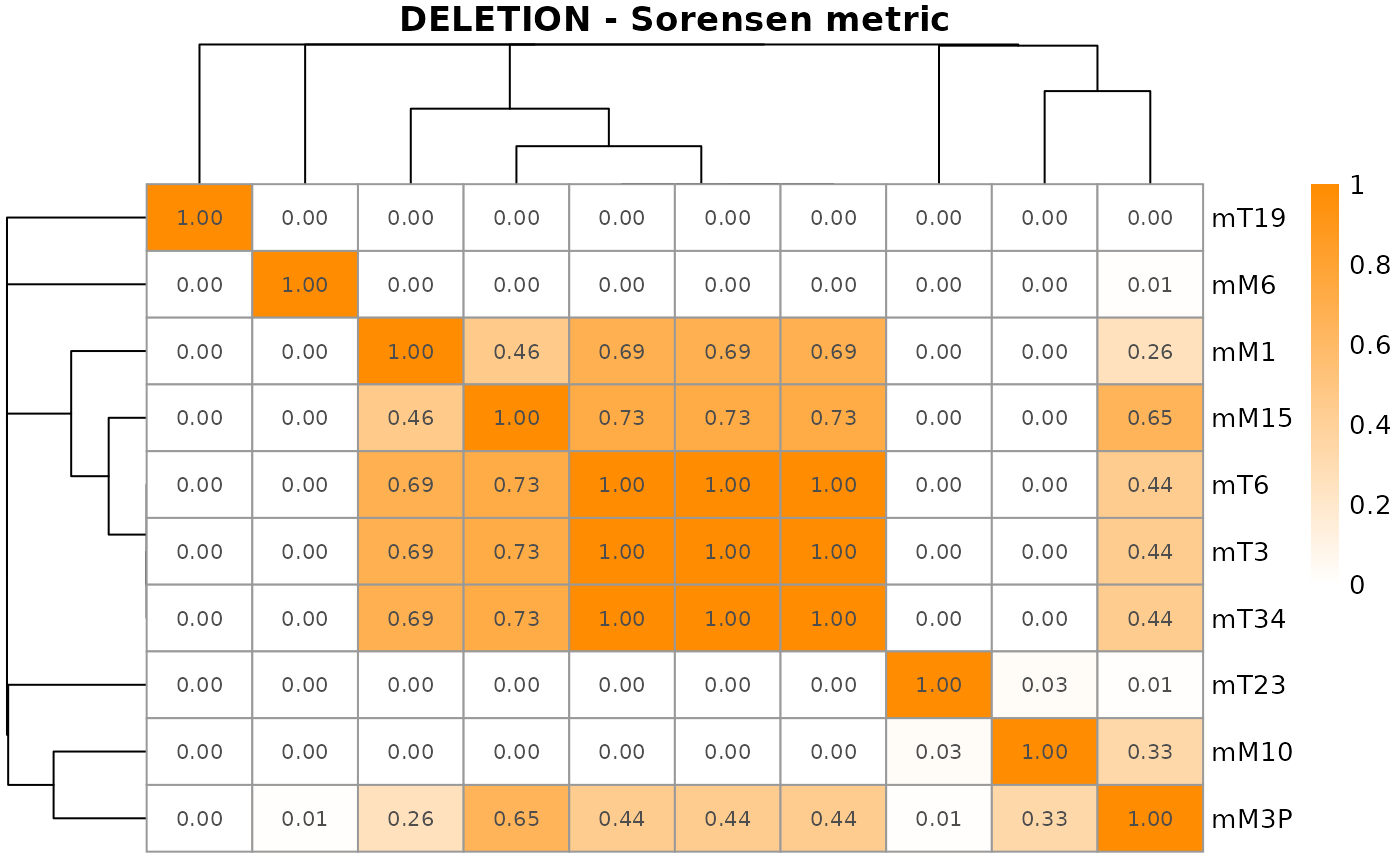
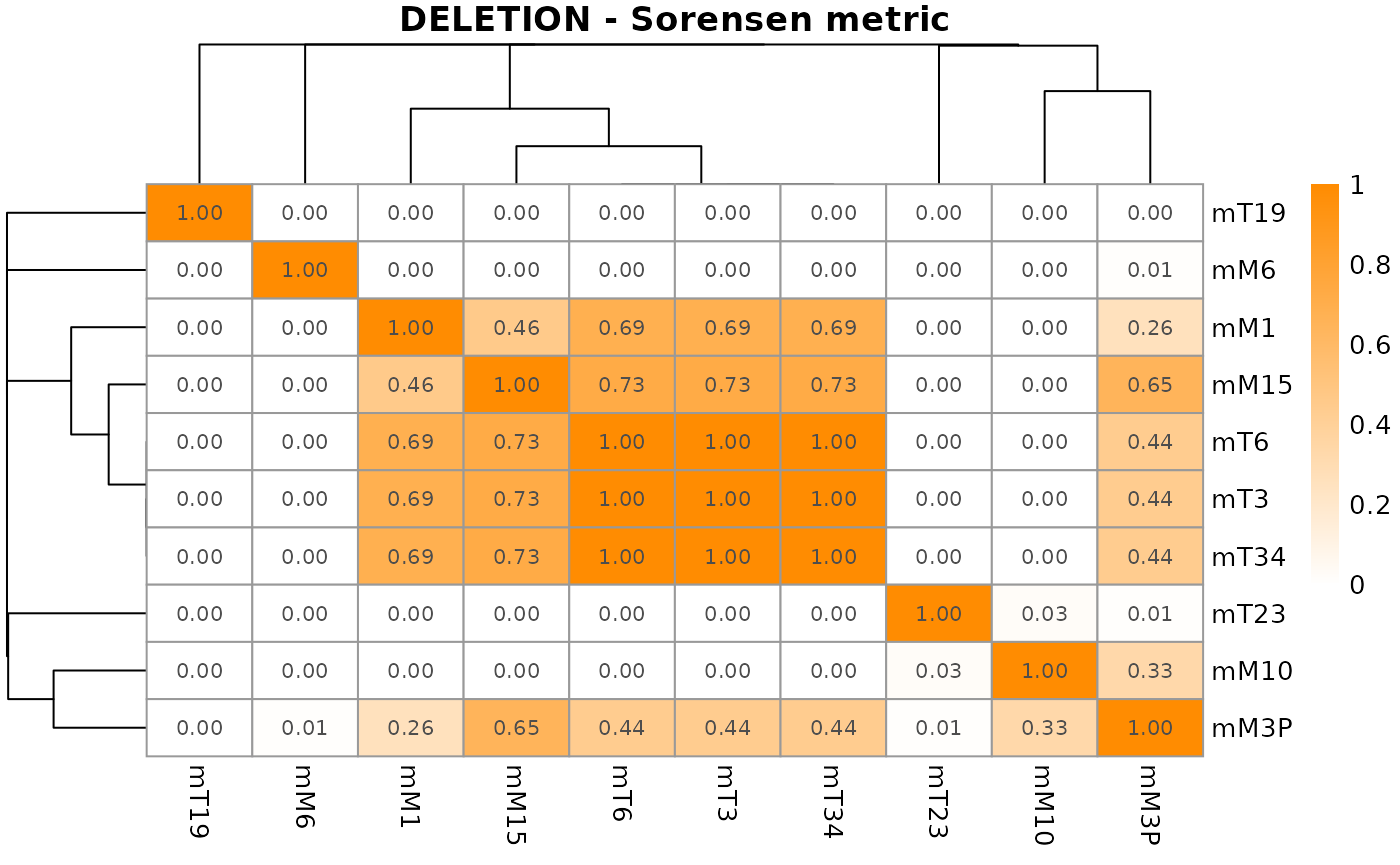
Built site for CNVMetrics: 0.1.3@6596838

diff --git a/articles/CNVMetrics.html b/articles/CNVMetrics.html
@@ -74,7 +74,7 @@
   <div class="col-md-9 contents">
     <div class="page-header toc-ignore">
       <h1 data-toc-skip>Quantifying similarity between copy number profiles</h1>
-                        <h4 class="author">Astrid Deschênes and Pascal Belleau</h4>
+                        <h4 class="author">Astrid Deschênes, Pascal Belleau and Alexander Krasnitz</h4>
             
       
       <small class="dont-index">Source: <a href="https://github.com/krasnitzlab/CNVMetrics/blob/master/vignettes/CNVMetrics.Rmd"><code>vignettes/CNVMetrics.Rmd</code></a></small>
@@ -93,15 +93,15 @@
 <div id="introduction" class="section level1">
 <h1 class="hasAnchor">
 <a href="#introduction" class="anchor"></a>Introduction</h1>
-<p>Copy number variation (CNV) includes multiplication and deletion of DNA segment (&gt; 1 kb). Copy number variations have been shown to be associated with a wide spectrum of pathological conditions and complex traits, such as developmental neuropsychiatric disorders <span class="citation">(Hiroi et al. 2013)</span> and especially cancer <span class="citation">(Stratton, Campbell, and Futreal 2009)</span>.</p>
-<p>CNV are usually reported, for each sample, as genomic regions that are duplicated or deleted with respect to a reference. Those regions are denoted as <em>CNV calls</em>. The level of amplification or deletion can also be reported, usually in log2 ratio values or normalized read depth <span class="citation">(Zhao et al. 2013)</span>. As an example, the Figure 1 shows the copy number profiles from sequencing data of two mouse pancreatic organoids <span class="citation">(Oni et al. 2020)</span>, calculated with <em><a href="https://github.com/KrasnitzLab/CNprep">CNprep</a></em> <span class="citation">(Belleau et al. 2020)</span> and plot with <em><a href="https://bioconductor.org/packages/3.12/gtrellis">gtrellis</a></em> <span class="citation">(Gu, Eils, and Schlesner 2016)</span>.</p>
+<p>Copy number variation (CNV) includes multiplication and deletion of DNA segment. Copy number variations have been shown to be associated with a wide spectrum of pathological conditions and complex traits, such as developmental neuropsychiatric disorders <span class="citation">(Hiroi et al. 2013)</span> and especially cancer <span class="citation">(Stratton, Campbell, and Futreal 2009)</span>.</p>
+<p>CNVs are usually reported, for each sample, as genomic regions that are duplicated or deleted with respect to a reference. Those regions are denoted as <em>CNV status calls</em>. The level of amplification or deletion can also be reported, usually in log2 ratio values or normalized read depth <span class="citation">(Zhao et al. 2013)</span>. As an example, the Figure 1 shows the copy number profiles from sequencing data of two mouse pancreatic organoids <span class="citation">(Oni et al. 2020)</span>, calculated with <em><a href="https://github.com/KrasnitzLab/CNprep">CNprep</a></em> <span class="citation">(Belleau et al. 2020)</span> and plot with <em><a href="https://bioconductor.org/packages/3.12/gtrellis">gtrellis</a></em> <span class="citation">(Gu, Eils, and Schlesner 2016)</span>.</p>
 <div class="figure" style="text-align: center">
 <img src="CNV_mM30_mM10_v03_Feb_08_2021_small.jpeg" alt="Copy number profiles of two mouse metastatic pancreatic organoids (M10 and M30)." width="95%"><p class="caption">
 Copy number profiles of two mouse metastatic pancreatic organoids (M10 and M30).
 </p>
 </div>
-<p>While visual representation is a practical way to qualitatively compare copy number profiles, metrics are useful statistical tools for quantitatively measuring similarity and dissimilarity between profiles. Similarity metrics can be used to compare independent samples but also related samples such as copy number profiles from bulk cancer tissues and paired organoids generated from those.</p>
-<p>The <em><a href="https://github.com/adeschen/CNVMetrics">CNVMetrics</a></em> package calculates metrics to estimate the level of similarity between copy number profiles. Some metrics are calculated using the <em>CNV calls</em> (amplification/deletion status) while others are based on the level of amplification/deletion. Finally, a visualization tool is provided to explore resulting metrics.</p>
+<p>While visual representation is a practical way to qualitatively compare copy number profiles, metrics are useful statistical tools for quantitatively measuring similarity and dissimilarity between profiles. Similarity metrics can be employed to compare CNV profiles of genetically unrelated samples. Moreover, those metrics can as well be put to use on samples with common genetic background. As an example, a comparison between primary and metastatic tumor CNV profiles may reveal genomic determinants of metastasis. Similarly, patient-derived xenograft or organoid models of cancer are expected to recapitulate CNV patterns of the tumor tissue of origin <span class="citation">(Gendoo et al. 2019)</span>.</p>
+<p>The <em><a href="https://github.com/adeschen/CNVMetrics">CNVMetrics</a></em> package calculates metrics to estimate the level of similarity between copy number profiles. Some metrics are calculated using the <em>CNV status calls</em> (amplification/deletion status) while others are based on the level of amplification/deletion. Finally, a visualization tool is provided to explore resulting metrics in the form of sample-to-sample heatmaps.</p>
 </div>
 <div id="installation" class="section level1">
 <h1 class="hasAnchor">
@@ -122,11 +122,11 @@ Copy number profiles of two mouse metastatic pancreatic organoids (M10 and M30).
 <span class="co">## using 'ref' parameter</span>
 <span class="fu">devtools</span><span class="fu">::</span><span class="fu"><a href="https://devtools.r-lib.org//reference/remote-reexports.html">install_github</a></span><span class="op">(</span><span class="st">'adeschen/CNVMetrics'</span>, ref <span class="op">=</span> <span class="st">"v0.1.2"</span><span class="op">)</span></code></pre></div>
 </div>
-<div id="workflow-for-metrics-calculated-using-cnv-calls" class="section level1">
+<div id="workflow-for-metrics-calculated-using-cnv-status-calls" class="section level1">
 <h1 class="hasAnchor">
-<a href="#workflow-for-metrics-calculated-using-cnv-calls" class="anchor"></a>Workflow for metrics calculated using <em>CNV calls</em>
+<a href="#workflow-for-metrics-calculated-using-cnv-status-calls" class="anchor"></a>Workflow for metrics calculated using <em>CNV status calls</em>
 </h1>
-<p>The following figure gives an overview of the capabilities of <em><a href="https://github.com/adeschen/CNVMetrics">CNVMetrics</a></em> to calculate metrics using the <em>CNV calls</em> (amplification/deletion status):</p>
+<p>The following figure gives an overview of the capabilities of <em><a href="https://github.com/adeschen/CNVMetrics">CNVMetrics</a></em> to calculate metrics using the <em>CNV status calls</em> (amplification/deletion status):</p>
 <p>The key functions for each step are:</p>
 <table class="table">
 <thead><tr class="header">
@@ -152,14 +152,14 @@ Copy number profiles of two mouse metastatic pancreatic organoids (M10 and M30).
 <div id="data-input---copy-number-file" class="section level2">
 <h2 class="hasAnchor">
 <a href="#data-input---copy-number-file" class="anchor"></a>Data Input - Copy number file</h2>
-<p><em>CNV calls</em> are represented as segments with a copy number state. The state be general, such as “amplification”, “deletion” or “neutral”, or more specific such as TODO.</p>
-<p>A basic five-column input file containing genomic position (chromosome, start, end), sample identification and CNV calls is required. All samples that need to be analyzed together have to be present in the file.</p>
+<p><em>CNV status calls</em> are represented as segments with a copy number state. The state be general, such as “amplification”, “deletion” or “neutral”, or more specific such as TODO.</p>
+<p>A basic five-column input file containing genomic position (chromosome, start, end), sample identification and <em>CNV status calls</em> is required. All samples that need to be analyzed together have to be combined into one file.</p>
 <p>A column named <strong>state</strong> is required. In this column, the amplified and deleted segments must be assigned those values:</p>
 <ul>
 <li><strong><span style="color:darkred">AMPLIFICATION</span></strong></li>
 <li><strong><span style="color:darkred">DELETION</span></strong></li>
 </ul>
-<p>Segments with other state values can be present in the file. However, those segments won’t be retain for the calculation of the metrics.</p>
+<p>Segments with other <strong>state</strong> values can be present in the file. However, those segments won’t be retain for the calculation of the metrics.</p>
 <div class="figure" style="text-align: center">
 <img src="Input_CNfile_2_small.jpg" alt="Example of a copy number file containing CNV calls." width="95%"><p class="caption">
 Example of a copy number file containing CNV calls.
@@ -171,7 +171,7 @@ Example of a copy number file containing CNV calls.
 <a href="#data-importation---grangeslist" class="anchor"></a>Data Importation - GRangesList</h2>
 <p>The input format for the copy number information, as needed by the <code><a href="../reference/calculateOverlapMetric.html">calculateOverlapMetric()</a></code> function, is a <code>GRangesList</code> object.</p>
 <p>The easiest way to generate a <code>GRangesList</code> object is to first load the copy number information into an R <code>data.frame</code> and then, use the <code><a href="https://rdrr.io/pkg/GenomicRanges/man/makeGRangesListFromDataFrame.html">GenomicRanges::makeGRangesListFromDataFrame()</a></code> function to convert them to a <code>GRangesList</code>.</p>
-<p>For this demonstration, we consider <em>CNV calls</em> as obtained with <em><a href="https://github.com/KrasnitzLab/CNprep">CNprep</a></em> <span class="citation">(Belleau et al. 2020)</span>, from ten mouse pancreatic organoids <span class="citation">(Oni et al. 2020)</span>.</p>
+<p>For this demonstration, we consider <em>CNV status calls</em> as obtained with <em><a href="https://github.com/KrasnitzLab/CNprep">CNprep</a></em> <span class="citation">(Belleau et al. 2020)</span>, from ten mouse pancreatic organoids <span class="citation">(Oni et al. 2020)</span>.</p>
 <div class="sourceCode" id="cb3"><pre class="downlit sourceCode r">
 <code class="sourceCode R"><span class="co">## Load required libraries</span>
 <span class="kw"><a href="https://rdrr.io/r/base/library.html">library</a></span><span class="op">(</span><span class="va"><a href="https://bioconductor.org/packages/GenomicRanges">GenomicRanges</a></span><span class="op">)</span>
@@ -182,7 +182,7 @@ Example of a copy number file containing CNV calls.
 <span class="va">cnv.file</span> <span class="op">&lt;-</span> <span class="fu"><a href="https://rdrr.io/r/base/file.path.html">file.path</a></span><span class="op">(</span><span class="va">data.dir</span>, <span class="st">"mousePairedOrganoids.txt"</span><span class="op">)</span>
 <span class="va">calls</span> <span class="op">&lt;-</span> <span class="fu"><a href="https://rdrr.io/r/utils/read.table.html">read.table</a></span><span class="op">(</span><span class="va">cnv.file</span>, header<span class="op">=</span><span class="cn">TRUE</span>, sep<span class="op">=</span><span class="st">"\t"</span><span class="op">)</span>
 
-<span class="co">## The CNV calls for all samples are present in one file</span>
+<span class="co">## The CNV status calls for all samples are present in one file</span>
 <span class="co">## The 'state' column is required</span>
 <span class="co">## The chromosome Y has been removed</span>
 <span class="fu"><a href="https://rdrr.io/r/utils/head.html">head</a></span><span class="op">(</span><span class="va">calls</span><span class="op">)</span></code></pre></div>
@@ -280,7 +280,7 @@ Example of a copy number file containing CNV calls.
 <h2 class="hasAnchor">
 <a href="#metric-visualization" class="anchor"></a>Metric Visualization</h2>
 <p>A heatmap of this similarity metrics can be a useful tool to get an overview over similarities and dissimilarities between samples.</p>
-<p>The <code><a href="../reference/plotOverlapMetric.html">plotOverlapMetric()</a></code> function generates a graphical representation of the similarity metrics. By default, an hierarchical clustering based on based on the sample distances (1-metrics) is used.</p>
+<p>The <code><a href="../reference/plotOverlapMetric.html">plotOverlapMetric()</a></code> function generates a graphical representation of the similarity metrics in the form of a sample-to-sample heatmap. By default, an hierarchical clustering based on based on the sample distances (1-metrics) is used.</p>
 <div class="sourceCode" id="cb11"><pre class="downlit sourceCode r">
 <code class="sourceCode R"><span class="co">## Create graph for the metrics related to amplified regions</span>
 <span class="fu"><a href="../reference/plotOverlapMetric.html">plotOverlapMetric</a></span><span class="op">(</span><span class="va">metric</span>, type <span class="op">=</span> <span class="st">"AMPLIFICATION"</span><span class="op">)</span></code></pre></div>
@@ -294,12 +294,13 @@ Example of a copy number file containing CNV calls.
 <span class="co">## arguments recognized by pheatmap() function</span>
 <span class="fu"><a href="../reference/plotOverlapMetric.html">plotOverlapMetric</a></span><span class="op">(</span><span class="va">metric</span>, type <span class="op">=</span> <span class="st">"DELETION"</span>, 
                     colorRange<span class="op">=</span><span class="fu"><a href="https://rdrr.io/r/base/c.html">c</a></span><span class="op">(</span><span class="st">"white"</span>, <span class="st">"darkorange"</span><span class="op">)</span>,
+                    show_colnames<span class="op">=</span><span class="cn">TRUE</span>,
                     display_numbers<span class="op">=</span><span class="cn">TRUE</span>,
                     number_format<span class="op">=</span><span class="st">"%.2f"</span><span class="op">)</span></code></pre></div>
 <p><img src="CNVMetrics_files/figure-html/demoPlot02-1.png" width="700" style="display: block; margin: auto;"></p>
 <p><br></p>
 <p><br></p>
-<p>Row or column annotation are often useful and can easy by added with the <code>annotation_row</code> or <code>annotation_col</code> arguments, as described in the <code><a href="https://rdrr.io/pkg/pheatmap/man/pheatmap.html">pheatmap::pheatmap</a></code> method.</p>
+<p>Row and/or column annotation is often useful and can easy by included with the <code>annotation_row</code> or <code>annotation_col</code> arguments, as described in the <code><a href="https://rdrr.io/pkg/pheatmap/man/pheatmap.html">pheatmap::pheatmap</a></code> method.</p>
 <div class="sourceCode" id="cb13"><pre class="downlit sourceCode r">
 <code class="sourceCode R"><span class="co">## Load file containing annotations for the mouse organoids</span>
 <span class="co">## The mouse ID identifying the source of the sample</span>
@@ -325,11 +326,11 @@ Example of a copy number file containing CNV calls.
 <p><br></p>
 </div>
 </div>
-<div id="metrics-using-the-cnv-calls" class="section level1">
+<div id="metrics-using-the-cnv-status-calls" class="section level1">
 <h1 class="hasAnchor">
-<a href="#metrics-using-the-cnv-calls" class="anchor"></a>Metrics using the <em>CNV calls</em>
+<a href="#metrics-using-the-cnv-status-calls" class="anchor"></a>Metrics using the <em>CNV status calls</em>
 </h1>
-<p>This survey represents the similarity measures that are implemented in <em><a href="https://github.com/adeschen/CNVMetrics">CNVMetrics</a></em> package. Those metrics are calculated using the <em>CNV calls</em>. The size of the amplified/deleted regions as well as the size of the overlapping of regions are always in base paired.</p>
+<p>This survey represents the similarity measures that are implemented in <em><a href="https://github.com/adeschen/CNVMetrics">CNVMetrics</a></em> package. Those metrics are calculated using the <em>CNV status calls</em>. The size of the amplified/deleted regions as well as the size of the overlapping of regions are always in base paired.</p>
 <div id="sørensen" class="section level2">
 <h2 class="hasAnchor">
 <a href="#s%C3%B8rensen" class="anchor"></a>Sørensen</h2>
@@ -357,35 +358,28 @@ size of the intersection by the sum of the size of the two sets:</p>
 <p>This survey represents the similarity measures that are implemented in <em><a href="https://github.com/adeschen/CNVMetrics">CNVMetrics</a></em> package.</p>
 <p>TODO</p>
 </div>
-<div id="inputs" class="section level1">
+<div id="supplementary-information" class="section level1">
 <h1 class="hasAnchor">
-<a href="#inputs" class="anchor"></a>Inputs</h1>
-<div id="chromosomes-information" class="section level2">
+<a href="#supplementary-information" class="anchor"></a>Supplementary information</h1>
+<div id="creating-your-own-grangeslist" class="section level2">
 <h2 class="hasAnchor">
-<a href="#chromosomes-information" class="anchor"></a>Chromosomes information</h2>
-<p>The chromosomes information is mandatory. It ensures that only the selected chromosomes are used in the analysis. As not all CNV software use the same reference (reference with alternative regions or not), it ensure that all samples will be compared using the same reference. We strongly encourage using only the primary chromosomes for this analaysis.</p>
-<p>The chromosomes information is contained inside a <code>Seqinfo</code> object. The information from some UCSC genomes can be fetched automatically using the <em><a href="https://bioconductor.org/packages/3.12/GenomeInfoDb">GenomeInfoDb</a></em> package.</p>
+<a href="#creating-your-own-grangeslist" class="anchor"></a>Creating your own GRangesList</h2>
+<p>The <code><a href="https://rdrr.io/pkg/GenomicRanges/man/makeGRangesListFromDataFrame.html">GenomicRanges::makeGRangesListFromDataFrame()</a></code> function enables the creation of a list of <code>GRangesList</code> objects from a <code>data.frame</code>. However, <code>GRangesList</code> can also be generated and filled manually.</p>
 <div class="sourceCode" id="cb16"><pre class="downlit sourceCode r">
-<code class="sourceCode R"><span class="co">### Import needed library that contains the Seqinfo method</span>
-<span class="kw"><a href="https://rdrr.io/r/base/library.html">library</a></span><span class="op">(</span><span class="va"><a href="https://bioconductor.org/packages/GenomeInfoDb">GenomeInfoDb</a></span><span class="op">)</span>
+<code class="sourceCode R"><span class="co">## Construction a GRangesList()</span>
+<span class="va">gr1</span> <span class="op">&lt;-</span> <span class="fu"><a href="https://rdrr.io/pkg/GenomicRanges/man/GRanges-class.html">GRanges</a></span><span class="op">(</span>seqnames<span class="op">=</span><span class="st">"chr2"</span>, ranges<span class="op">=</span><span class="fu">IRanges</span><span class="op">(</span><span class="fl">3</span>, <span class="fl">6000</span><span class="op">)</span>,
+          strand<span class="op">=</span><span class="st">"+"</span>, state<span class="op">=</span><span class="st">"AMPLIFICATION"</span>, 
+          log2ratio<span class="op">=</span><span class="fl">0.45</span><span class="op">)</span>
+<span class="va">gr2</span> <span class="op">&lt;-</span> <span class="fu"><a href="https://rdrr.io/pkg/GenomicRanges/man/GRanges-class.html">GRanges</a></span><span class="op">(</span>seqnames<span class="op">=</span><span class="fu"><a href="https://rdrr.io/r/base/c.html">c</a></span><span class="op">(</span><span class="st">"chr1"</span>, <span class="st">"chr2"</span><span class="op">)</span>,
+          ranges<span class="op">=</span><span class="fu">IRanges</span><span class="op">(</span><span class="fu"><a href="https://rdrr.io/r/base/c.html">c</a></span><span class="op">(</span><span class="fl">7</span>,<span class="fl">5555</span><span class="op">)</span>, width<span class="op">=</span><span class="fu"><a href="https://rdrr.io/r/base/c.html">c</a></span><span class="op">(</span><span class="fl">1200</span>, <span class="fl">40</span><span class="op">)</span><span class="op">)</span>,
+          strand<span class="op">=</span><span class="fu"><a href="https://rdrr.io/r/base/c.html">c</a></span><span class="op">(</span><span class="st">"+"</span>, <span class="st">"-"</span><span class="op">)</span>,  state<span class="op">=</span><span class="fu"><a href="https://rdrr.io/r/base/c.html">c</a></span><span class="op">(</span><span class="st">"NEUTRAL"</span>, <span class="st">"AMPLIFICATION"</span><span class="op">)</span>, 
+          log2ratio<span class="op">=</span><span class="fu"><a href="https://rdrr.io/r/base/c.html">c</a></span><span class="op">(</span><span class="fl">0.034</span>, <span class="fl">0.5</span><span class="op">)</span><span class="op">)</span>
+<span class="va">gr3</span> <span class="op">&lt;-</span> <span class="fu"><a href="https://rdrr.io/pkg/GenomicRanges/man/GRanges-class.html">GRanges</a></span><span class="op">(</span>seqnames<span class="op">=</span><span class="fu"><a href="https://rdrr.io/r/base/c.html">c</a></span><span class="op">(</span><span class="st">"chr1"</span>, <span class="st">"chr2"</span><span class="op">)</span>,
+          ranges<span class="op">=</span><span class="fu">IRanges</span><span class="op">(</span><span class="fu"><a href="https://rdrr.io/r/base/c.html">c</a></span><span class="op">(</span><span class="fl">1</span>, <span class="fl">5577</span><span class="op">)</span>, <span class="fu"><a href="https://rdrr.io/r/base/c.html">c</a></span><span class="op">(</span><span class="fl">3</span>, <span class="fl">5666</span><span class="op">)</span><span class="op">)</span>,
+          strand<span class="op">=</span><span class="fu"><a href="https://rdrr.io/r/base/c.html">c</a></span><span class="op">(</span><span class="st">"-"</span>, <span class="st">"-"</span><span class="op">)</span>, state<span class="op">=</span><span class="fu"><a href="https://rdrr.io/r/base/c.html">c</a></span><span class="op">(</span><span class="st">"NEUTRAL"</span>, <span class="st">"AMPLIFICATION"</span><span class="op">)</span>, 
+          log2ratio<span class="op">=</span><span class="fu"><a href="https://rdrr.io/r/base/c.html">c</a></span><span class="op">(</span><span class="fl">0.04</span>, <span class="fl">0.31</span><span class="op">)</span><span class="op">)</span>
 
-<span class="co">### Get the information for Human genome version GRCh38</span>
-<span class="va">hg38Info</span> <span class="op">&lt;-</span> <span class="fu"><a href="https://rdrr.io/pkg/GenomeInfoDb/man/Seqinfo-class.html">Seqinfo</a></span><span class="op">(</span>genome<span class="op">=</span><span class="st">"hg38"</span><span class="op">)</span>
-
-<span class="co">### Subset the object to keep only the analyzed chromosomes</span>
-<span class="co">### Chromosomes X and Y are often removed from subsequent analyses</span>
-<span class="fu"><a href="https://rdrr.io/pkg/GenomeInfoDb/man/seqinfo.html">seqlevels</a></span><span class="op">(</span><span class="va">hg38Info</span><span class="op">)</span> <span class="op">&lt;-</span> <span class="fu"><a href="https://rdrr.io/r/base/paste.html">paste0</a></span><span class="op">(</span><span class="st">"chr"</span>, <span class="fl">1</span><span class="op">:</span><span class="fl">22</span><span class="op">)</span></code></pre></div>
-<p>A <code>Seqinfo</code> object can also be created using the chromosomes information specific to the analyzed genome. The <em><a href="https://bioconductor.org/packages/3.12/GenomeInfoDb">GenomeInfoDb</a></em> package is required.</p>
-<div class="sourceCode" id="cb17"><pre class="downlit sourceCode r">
-<code class="sourceCode R"><span class="co">### Import needed library that contains the Seqinfo method</span>
-<span class="kw"><a href="https://rdrr.io/r/base/library.html">library</a></span><span class="op">(</span><span class="va"><a href="https://bioconductor.org/packages/GenomeInfoDb">GenomeInfoDb</a></span><span class="op">)</span>
-
-<span class="co">### Create an Seqinfo Object</span>
-<span class="va">chrInfo</span> <span class="op">&lt;-</span> <span class="fu"><a href="https://rdrr.io/pkg/GenomeInfoDb/man/Seqinfo-class.html">Seqinfo</a></span><span class="op">(</span>seqnames<span class="op">=</span><span class="fu"><a href="https://rdrr.io/r/base/c.html">c</a></span><span class="op">(</span><span class="st">"chr1"</span>, <span class="st">"chr2"</span>, <span class="st">"chr3"</span><span class="op">)</span>,
-            seqlengths<span class="op">=</span><span class="fu"><a href="https://rdrr.io/r/base/c.html">c</a></span><span class="op">(</span><span class="fl">10000</span>, <span class="fl">20000</span>, <span class="fl">1500</span><span class="op">)</span>, isCircular<span class="op">=</span><span class="fu"><a href="https://rdrr.io/r/base/c.html">c</a></span><span class="op">(</span><span class="cn">FALSE</span>, <span class="cn">FALSE</span>, <span class="cn">FALSE</span><span class="op">)</span>,
-            genome<span class="op">=</span><span class="st">"Alien"</span><span class="op">)</span></code></pre></div>
-<div class="sourceCode" id="cb18"><pre class="downlit sourceCode r">
-<code class="sourceCode R"><span class="co">#a&lt;-prepareInformation(segDirectory = "inst/extdata/", bedExclusionFile = "inst/extdata/exclusion.bed", segmentWithHeader = FALSE, chrInfo = hg38Info)</span></code></pre></div>
+<span class="va">grl</span> <span class="op">&lt;-</span> <span class="fu"><a href="https://rdrr.io/pkg/GenomicRanges/man/GRangesList-class.html">GRangesList</a></span><span class="op">(</span><span class="st">"sample01"</span><span class="op">=</span><span class="va">gr1</span>, <span class="st">"sample02"</span><span class="op">=</span><span class="va">gr2</span>, <span class="st">"sample03"</span><span class="op">=</span><span class="va">gr3</span><span class="op">)</span></code></pre></div>
 </div>
 </div>
 <div id="session-info" class="section level1">
@@ -452,6 +446,9 @@ size of the intersection by the sum of the size of the two sets:</p>
 <div id="refs" class="references">
 <div id="ref-Belleau2020">
 <p>Belleau, P, A Deschênes, G Sun, David A Tuveson, and Alex Krasnitz. 2020. “CNprep: Copy number event detection [version 1; not peer reviewed].” <em>F1000Research</em> 9 (743): (poster). <a href="https://doi.org/10.7490/f1000research.1118065.1">https://doi.org/10.7490/f1000research.1118065.1</a>.</p>
+</div>
+<div id="ref-Gendoo2019">
+<p>Gendoo, Deena M. A., Robert E. Denroche, Amy Zhang, Nikolina Radulovich, Gun Ho Jang, Mathieu Lemire, Sandra Fischer, et al. 2019. “Whole genomes define concordance of matched primary, xenograft, and organoid models of pancreas cancer.” Edited by Amos Tanay. <em>PLOS Computational Biology</em> 15 (1): e1006596. <a href="https://doi.org/10.1371/journal.pcbi.1006596">https://doi.org/10.1371/journal.pcbi.1006596</a>.</p>
 </div>
 <div id="ref-Gu2016a">
 <p>Gu, Zuguang, Roland Eils, and Matthias Schlesner. 2016. “gtrellis: an R/Bioconductor package for making genome-level Trellis graphics.” <em>BMC Bioinformatics</em> 17 (1): 169. <a href="https://doi.org/10.1186/s12859-016-1051-4">https://doi.org/10.1186/s12859-016-1051-4</a>.</p>
